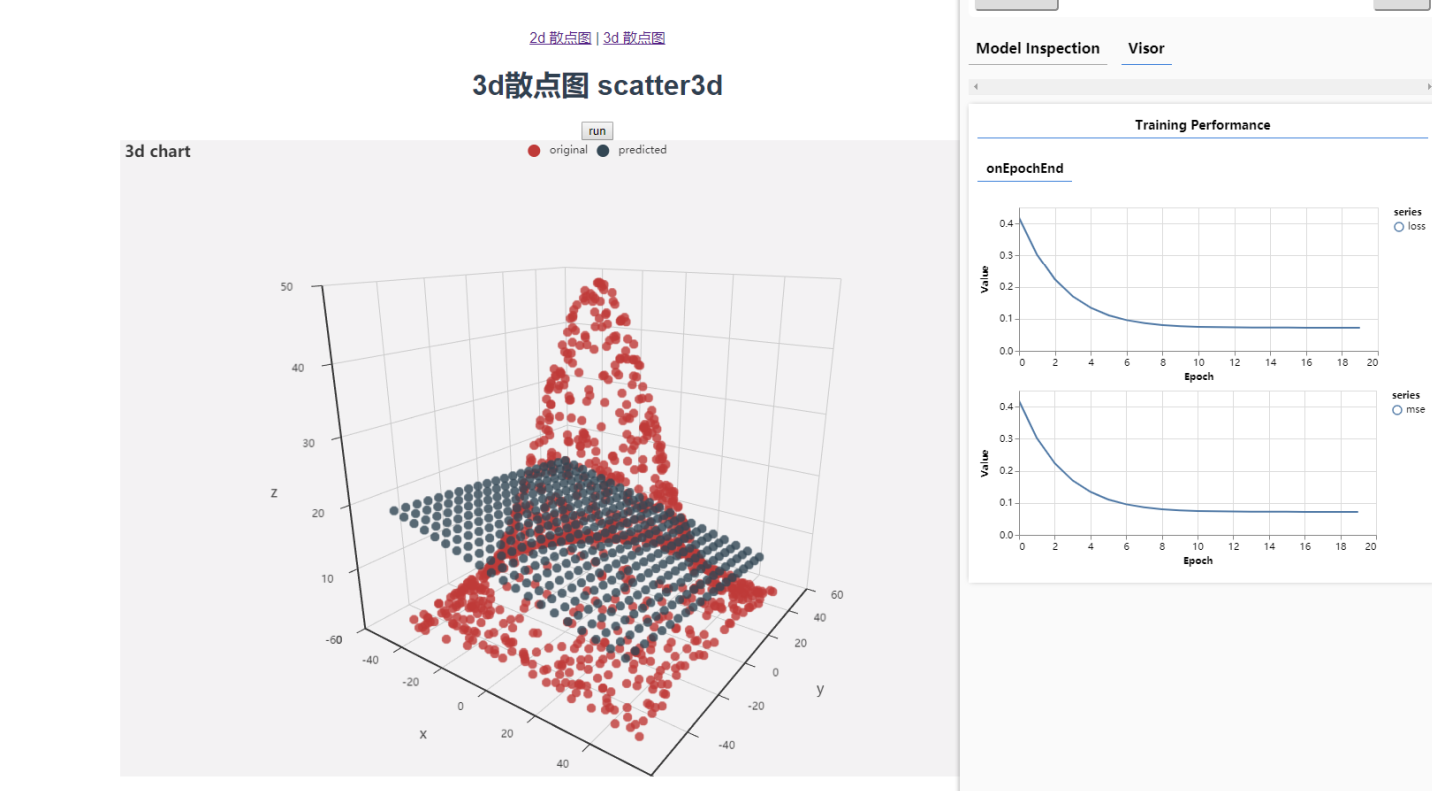
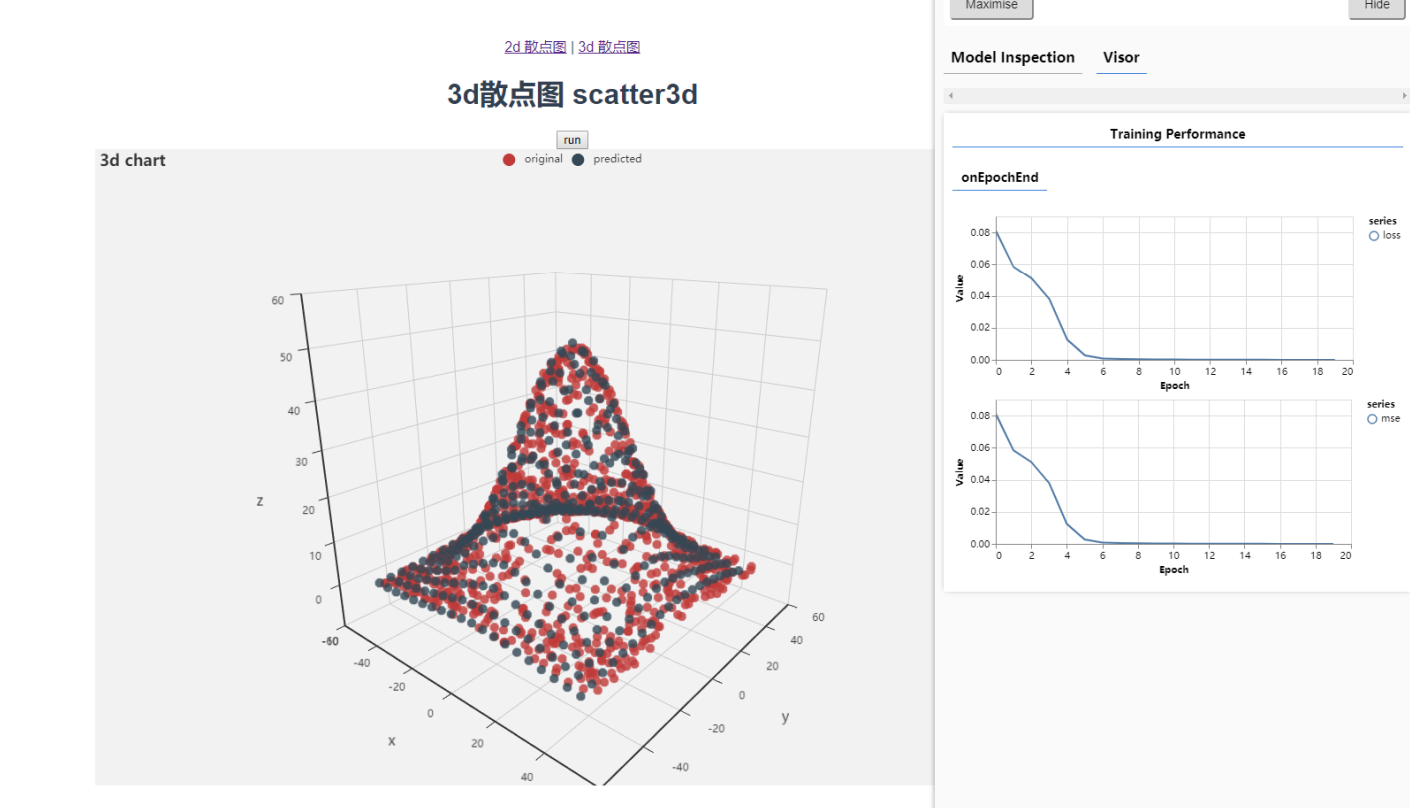
readme update

diff --git a/README.md b/README.md
@@ -5,9 +5,11 @@ tfjs-echarts-vue
 感觉非常好用，或者说简直不要太棒，完全符合自己已有技术和发展需求。所以赶紧参考官方实例实践了一遍，预测了2d数据，并拿echarts散点图重新可视化了数据。  
 对应官方示例见最下面的参考小节。  
 
-探索
+扩展
 --
-多输入输出的拟合，至少三维拟合还是可以演示的。
+
+探索完成了三维拟合，从演示可以看到对于正态分布的测试数据，已经完全拟合。和2d的主要改变是增加输入权重单位为2，激活函数使用relu。  
+最终目的是多输入输出的拟合，但是似乎由于维度过高无法演示。
 
 演示
 --
